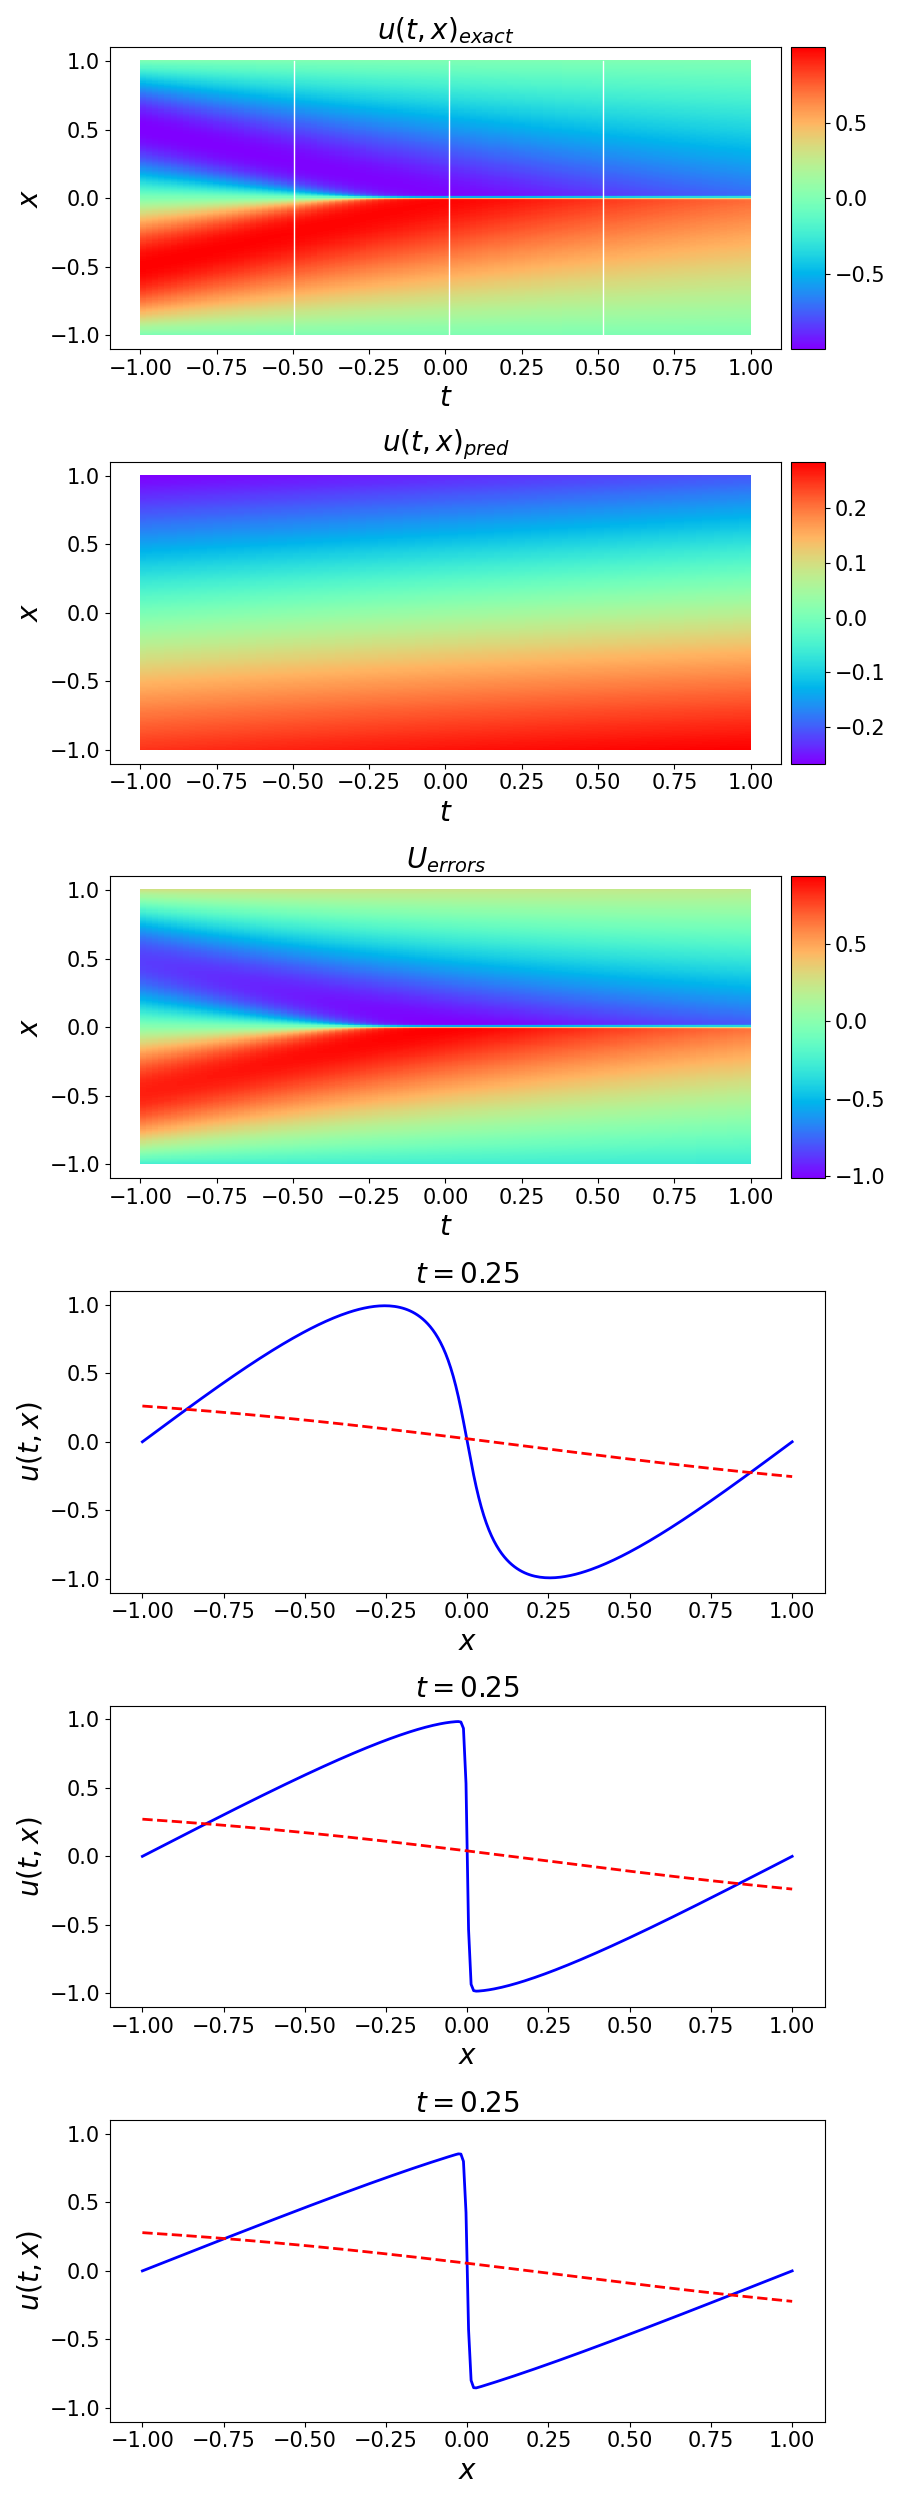
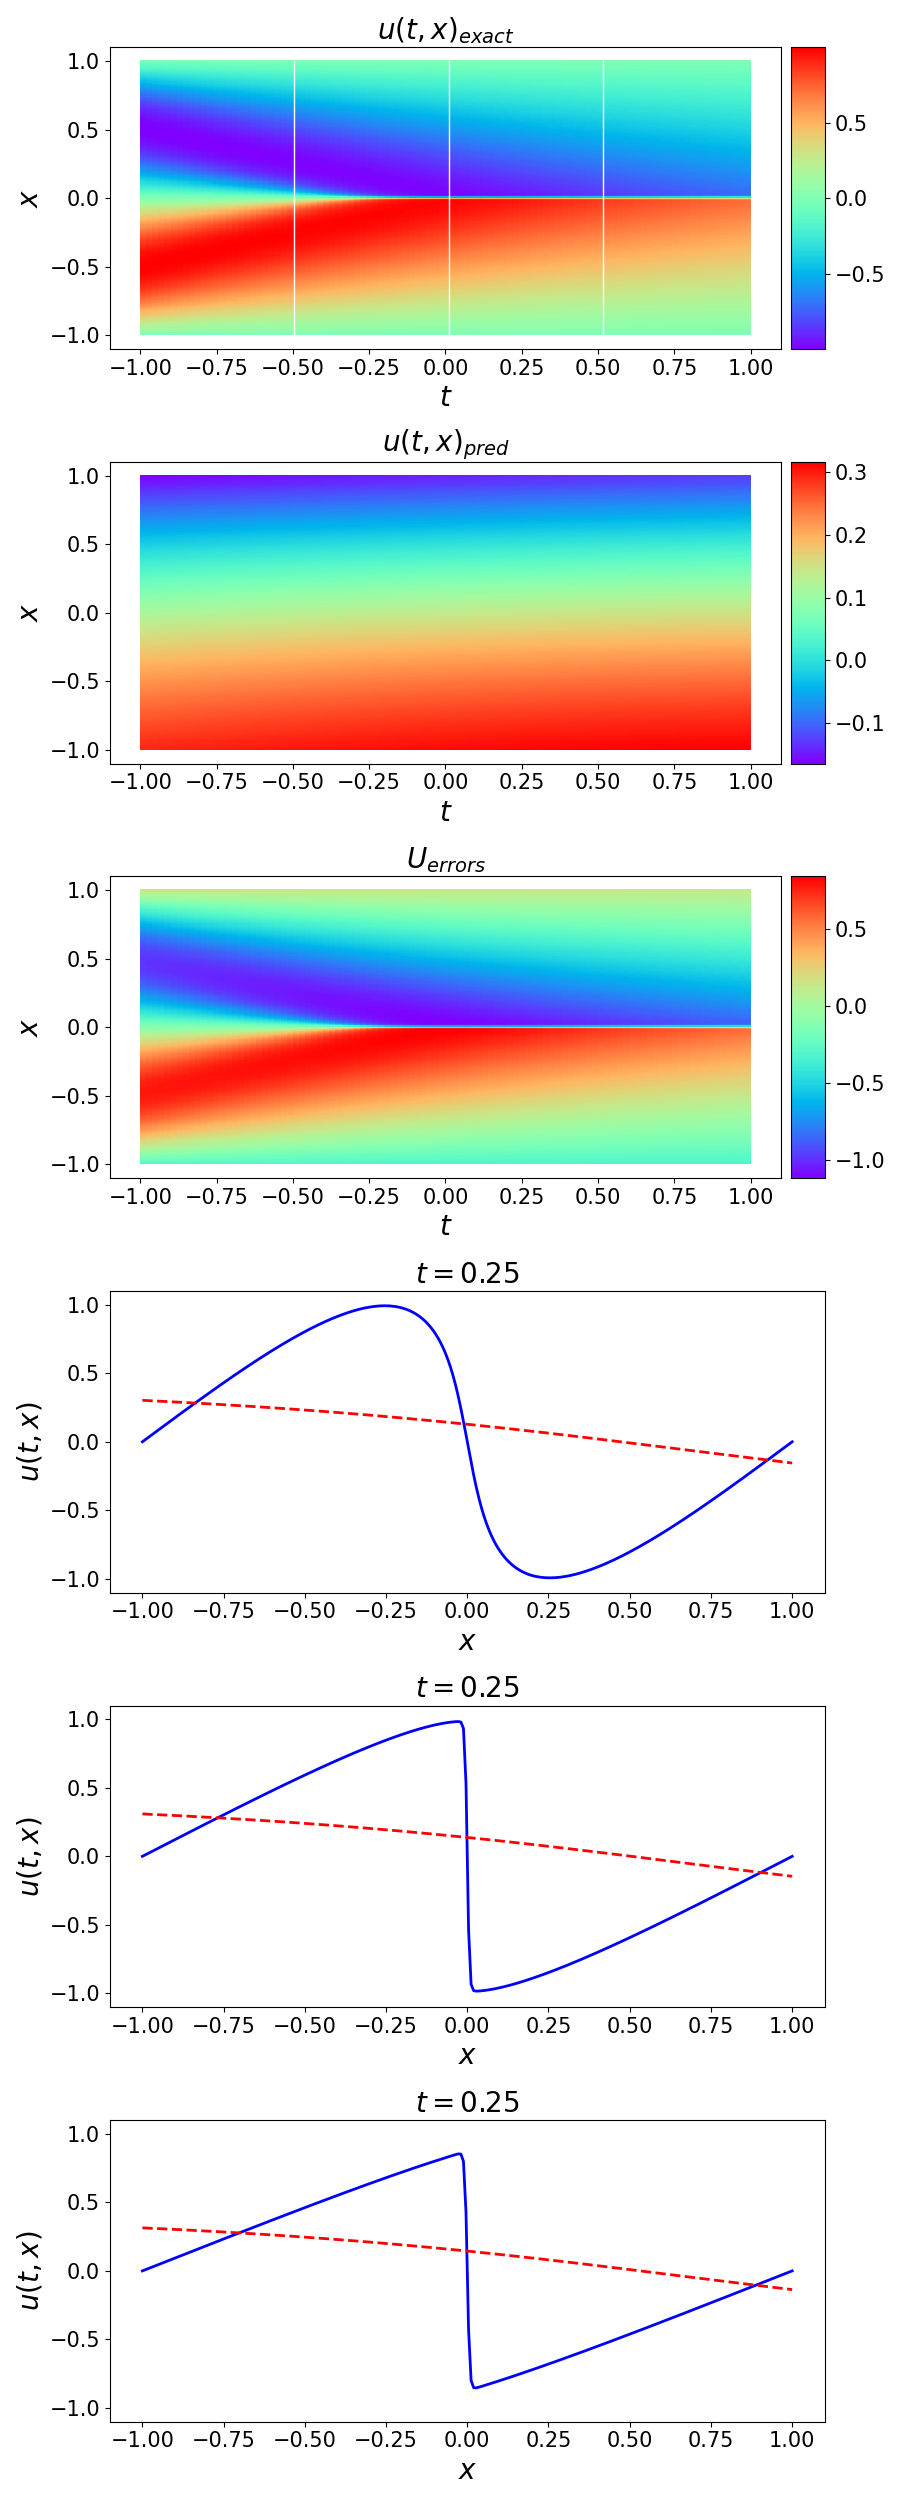
deeponets burgers for initial

Changed region(s): [[0.1556, 0.1872, 0.7778, 0.312], [0.9333, 0.3744, 0.9644, 0.468], [0.9333, 0.1872, 0.9644, 0.2808]]

diff --git a/DeepONet/burgers_v1_1/plot_result.py b/DeepONet/burgers_v1_1/plot_result.py
@@ -22,17 +22,18 @@ def generate_one_test_data():
 
     # Prediction
     x_star = np.hstack((x_mesh.flatten()[:, None], t_mesh.flatten()[:, None]))  # (n_x*n_t, 2)
+    u_star = np.tile(exact[0:1, :].T.flatten(), (x_star.shape[0], 1))
 
-    return x_star, exact
+    return u_star, x_star, exact
 
 
 def plot(trainer):
-    x_test, exact = generate_one_test_data()
+    u_star,x_test, exact = generate_one_test_data()
 
     t = np.linspace(-1, 1, 100).flatten()[:, None]
     x = np.linspace(-1, 1, 256).flatten()[:, None]
 
-    s_pred = trainer.predict_s(to_tensor(x_test))[:, None]
+    s_pred = trainer.predict_s(to_tensor(u_star),to_tensor(x_test))[:, None]
     s_pred = to_numpy(s_pred)
     s_pred = s_pred.flatten()[:, None]
     s_pred = s_pred.reshape(100, 256)

diff --git a/DeepONet/burgers_v1_1/predict.py b/DeepONet/burgers_v1_1/predict.py
@@ -22,14 +22,15 @@ def generate_one_test_data():
     # Prediction
     x_star = np.hstack((x_mesh.flatten()[:, None], t_mesh.flatten()[:, None]))  # (n_x*n_t, 2)
     s_star = exact.flatten()[:, None]
+    u_star = np.tile(exact[0:1, :].T.flatten(), (s_star.shape[0], 1))
 
-    return x_star, s_star
+    return u_star, x_star, s_star
 
 
 def compute_error(trainer):
-    x_test, s_test = generate_one_test_data()
+    u_star,x_test, s_test = generate_one_test_data()
 
-    s_pred = trainer.predict_s(to_tensor(x_test))
+    s_pred = trainer.predict_s(to_tensor(u_star) , to_tensor(x_test))[:,None]
 
     error = np.linalg.norm(s_test - to_numpy(s_pred)) / np.linalg.norm(s_test)
     return error

diff --git a/DeepONet/burgers_v1_1/trainer.py b/DeepONet/burgers_v1_1/trainer.py
@@ -150,9 +150,9 @@ class Trainer():
 
         self.optimizer_LBFGS.step(closure)
 
-    def predict_s(self, x_star):
+    def predict_s(self,u_star, x_star):
         self.model.eval()
-        pred = self.pinn_net(x_star[:, 0:1], x_star[:, 1:2])
+        pred = self.operator_net(u_star, x_star[:, 0:1], x_star[:, 1:2])
         return pred
 
     # def predict_res(self, U_star, Y_star):
